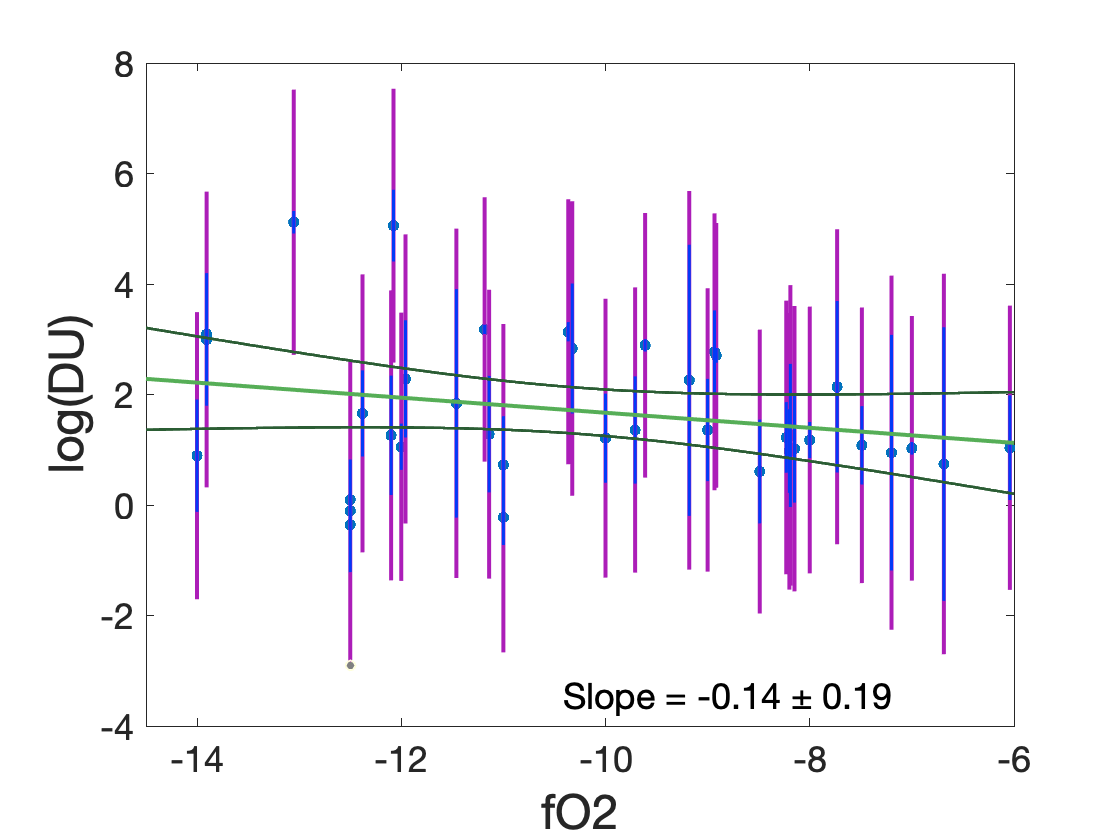
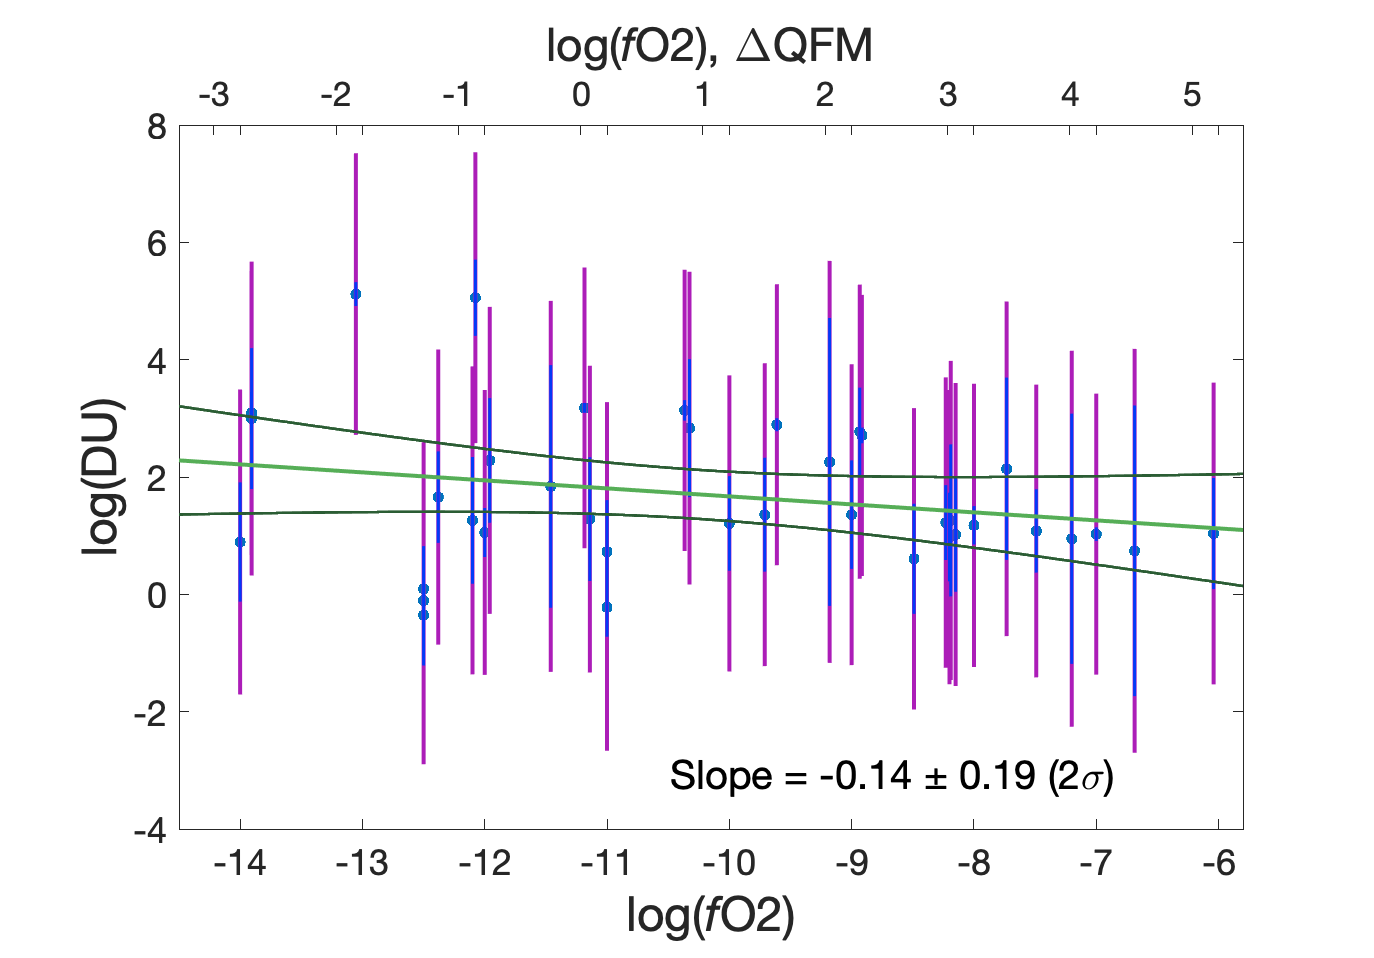
add second axis to log(DU) vs log(fO2) plot
add QFM axis to top of figure

diff --git a/DvsfO2_wtdLeastSquares.m b/DvsfO2_wtdLeastSquares.m
@@ -64,11 +64,14 @@ fO2_highfO2 = fO2(hasAllUData & ~infO2Bounds & inDUBounds);
 %% plot U results
 
 figure("Name", "log(DU) vs fO2")
-plot(fO2_U, logDU, '.', 'MarkerSize', 15)
+t = tiledlayout(1,1);
+ax1 = axes(t);
+
+plot(ax1, fO2_U, logDU, '.', 'MarkerSize', 15)
 hold on
-line([fO2_U'; fO2_U'], [logDU' - 2*logDU_1sAbs_od'; logDU' + 2*logDU_1sAbs_od'], ...
+line(ax1, [fO2_U'; fO2_U'], [logDU' - 2*logDU_1sAbs_od'; logDU' + 2*logDU_1sAbs_od'], ...
     'Color', rgb('Barney'), 'LineWidth', 2)
-line([fO2_U'; fO2_U'], [logDU' - 2*logDU_1sAbs'; logDU' + 2*logDU_1sAbs'], ...
+line(ax1, [fO2_U'; fO2_U'], [logDU' - 2*logDU_1sAbs'; logDU' + 2*logDU_1sAbs'], ...
     'Color', rgb('Vibrant Blue'), 'LineWidth', 1.5)
 
 xbuf = 0.5; npts = 500;
@@ -82,19 +85,20 @@ for idx = 1:npts
     uncty(idx) = sqrt( positionVector(idx,:) * S * positionVector(idx,:)');
 end
 
-plot(xvector, yvector, '-', "Color", rgb('Dark Pastel Green'), ...
+plot(ax1, xvector, yvector, '-', "Color", rgb('Dark Pastel Green'), ...
     "LineWidth", 2)
-plot(xvector, yvector + 2*uncty, '-', "Color", rgb('Pine'), "LineWidth", 1.5)
-plot(xvector, yvector - 2*uncty, '-', "Color", rgb('Pine'), "LineWidth", 1.5)
+plot(ax1, xvector, yvector + 2*uncty, '-', "Color", rgb('Pine'), "LineWidth", 1.5)
+plot(ax1, xvector, yvector - 2*uncty, '-', "Color", rgb('Pine'), "LineWidth", 1.5)
 
-set(gca, "FontSize", 18)
-xlabel("log(fO2)", "FontSize", 24)
-ylabel("log(DU)", "FontSize", 24)
+set(ax1, "FontSize", 18)
+xlabel(ax1, "log({\itf}O2)", "FontSize", 24)
+ylabel(ax1, "log(DU)", "FontSize", 24)
 
 currentXLim = xlim(gca);
 newXLim(1) = max([fO2_lowerBound, currentXLim(1), xlimits(1)]);
-newXLim(2) = min([fO2_upperBound, currentXLim(2), xlimits(2)]);
-xlim(newXLim)
+newXLim(2) = min([fO2_upperBound, currentXLim(2), xlimits(2)]) + 0.2;
+xlim(ax1, newXLim)
+ax1.XTickMode = "auto";
 
 % % uncomment if plotting high-fO2 points
 % plot(fO2_highfO2, logDU_highfO2, '.b', 'MarkerSize', 15)
@@ -103,13 +107,30 @@ xlim(newXLim)
 %     'Color', rgb('black'), 'LineWidth', 2)
 % xlim([newXLim(1) 0])
 
-annotation("textbox", [0.4 0.12 0.5, 0.1], ...
-    "String", "Slope = " + round(x(1),2) + " ± " + round(2*stdx(1),2), ...
-    "FontSize", 18, ...
+annotation("textbox", [0.4 0.14 0.5, 0.1], ...
+    "String", ...
+    "Slope = " + round(x(1),2) + " ± " + round(2*stdx(1),2) + " (2\sigma)", ...
+    "FontSize", 20, ...
     "HorizontalAlignment", "center", ...
     "VerticalAlignment","middle", ...
     "LineStyle", "none")
 
+ax2 = axes(t);
+ax2.XAxisLocation = 'top';
+ax2.YAxisLocation = 'right';
+ax2.Color = 'none';
+set(ax2, "FontSize", 17)
+
+ax1xlim = xlim(ax1);
+T = 1000 + 273.15; % assume a temperature in K for calcs
+FMQ = 9 - 25738/T; % per Mike
+ax2xlim = ax1xlim - FMQ;
+xlim(ax2, ax2xlim)
+xlabel(ax2, "log({\itf}O2), \DeltaQFM", "FontSize", 23)
+ylabel(ax2, "")
+ax2.XTickMode = "auto";
+ax2.YTickLabel = [];
+ax2.YTick = [];
 
 %% Local functions
 
